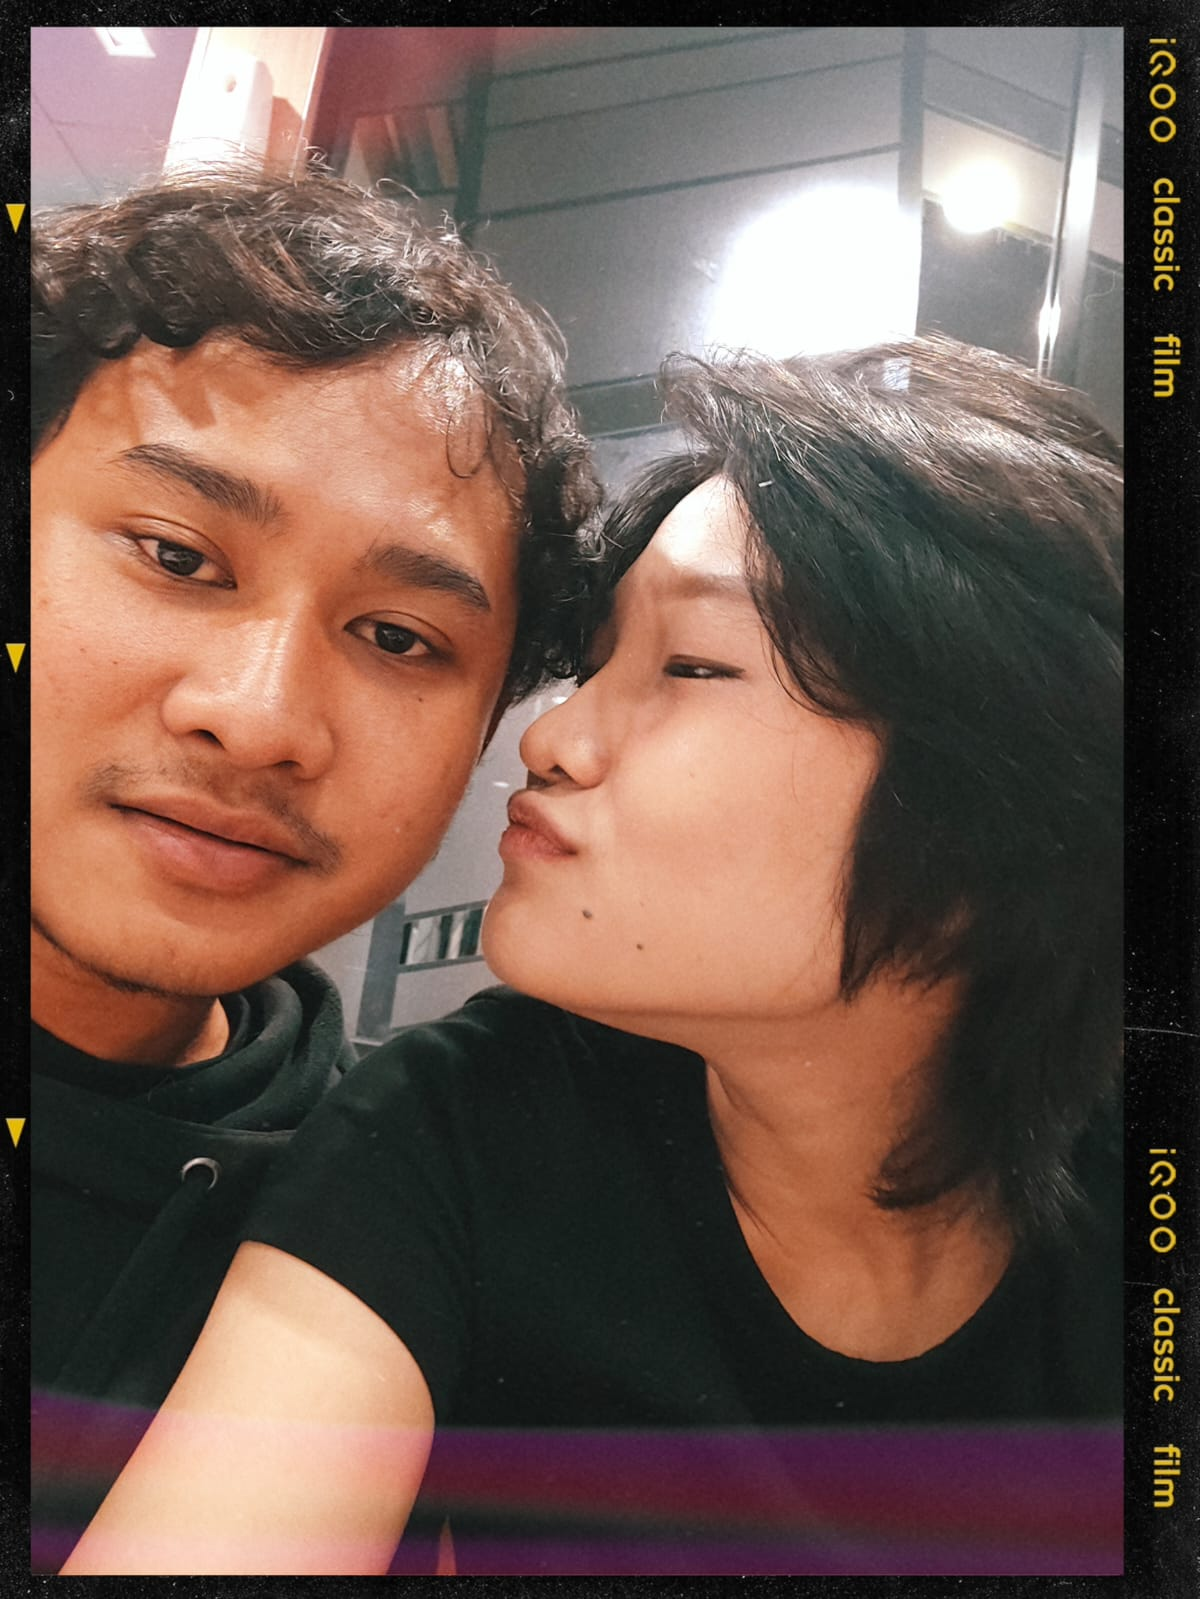
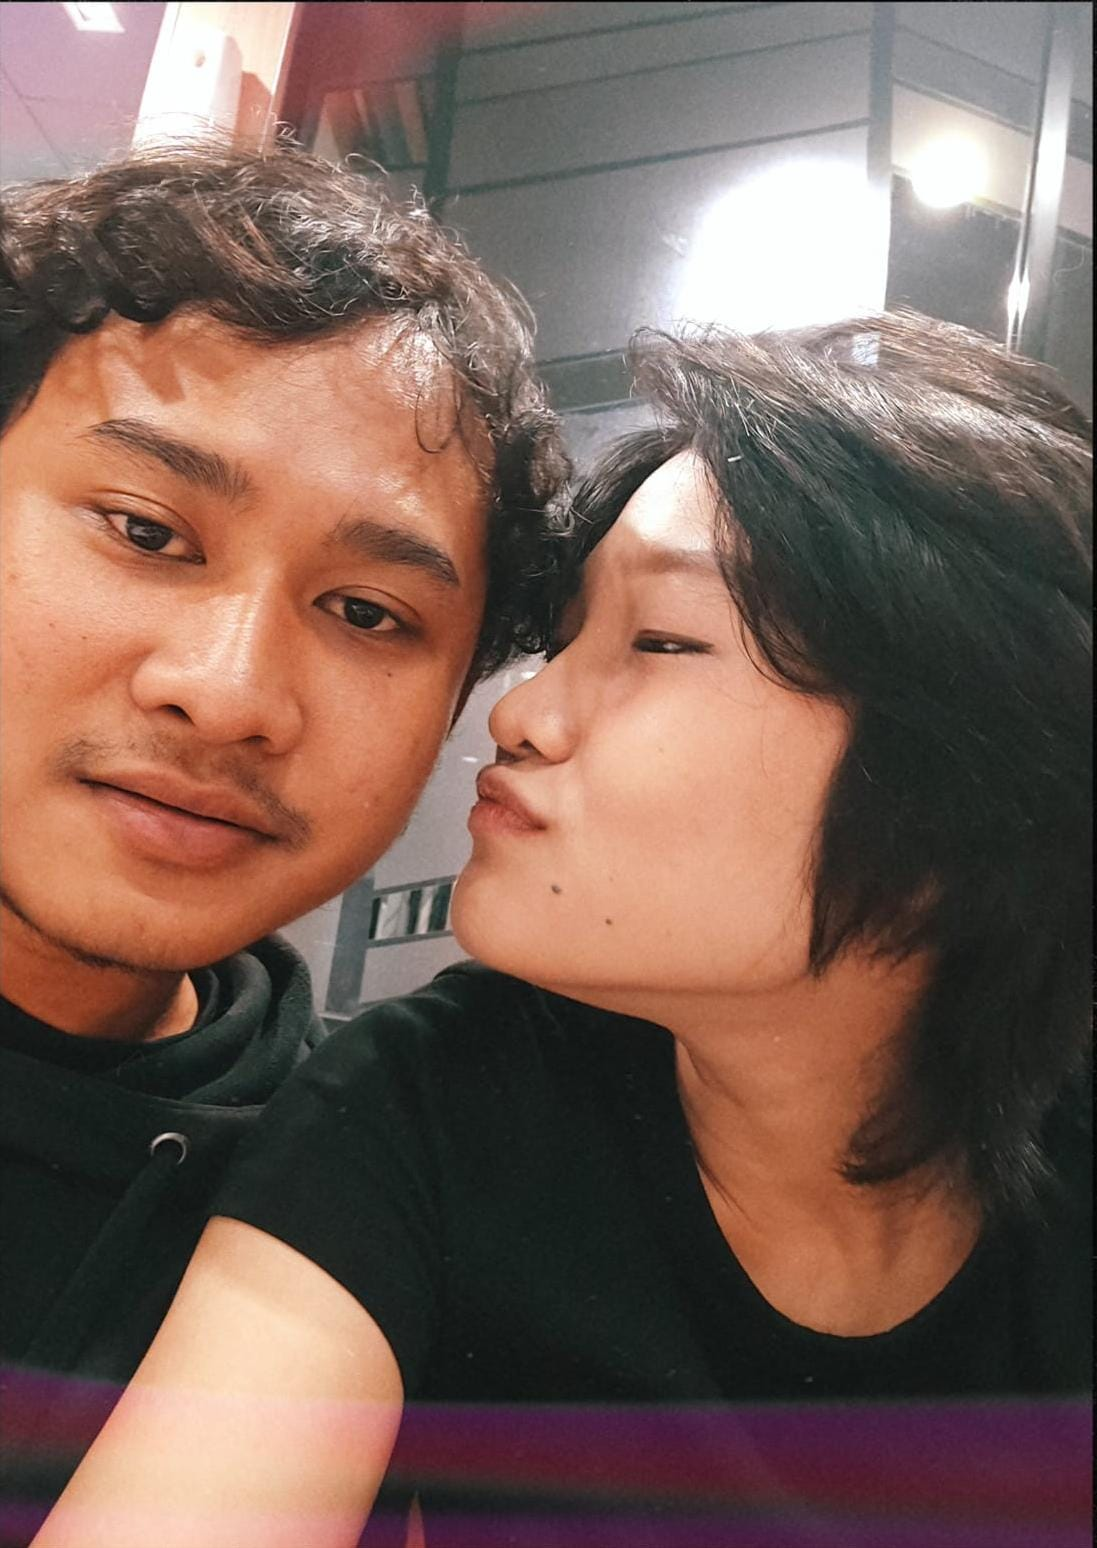
update photo & fix music player

diff --git a/src/components/MusicPlayer.tsx b/src/components/MusicPlayer.tsx
@@ -1,31 +1,40 @@
 import { useState, useRef, useEffect } from "react";
-import { Volume2, VolumeX, Music } from "lucide-react";
+import { Volume2, VolumeX, Music, Gift } from "lucide-react";
+import {
+  AlertDialog,
+  AlertDialogAction,
+  AlertDialogContent,
+  AlertDialogDescription,
+  AlertDialogFooter,
+  AlertDialogHeader,
+  AlertDialogTitle,
+} from "@/components/ui/alert-dialog";
 
 const MusicPlayer = () => {
   const [isPlaying, setIsPlaying] = useState(false);
-  const [hasInteracted, setHasInteracted] = useState(false);
+  const [showDialog, setShowDialog] = useState(false);
   const audioRef = useRef<HTMLAudioElement>(null);
 
-  // Using a royalty-free romantic piano piece from a public source
-  const audioSrc = "/backsound.mp3";
-
   useEffect(() => {
-    const handleFirstInteraction = () => {
-      if (!hasInteracted) {
-        setHasInteracted(true);
-        if (audioRef.current) {
-          audioRef.current.play().then(() => {
-            setIsPlaying(true);
-          }).catch(() => {
-            // Autoplay blocked, user needs to click
-          });
-        }
-      }
-    };
+    // Show dialog after a short delay when component mounts
+    const timer = setTimeout(() => {
+      setShowDialog(true);
+    }, 500);
 
-    document.addEventListener("click", handleFirstInteraction, { once: true });
-    return () => document.removeEventListener("click", handleFirstInteraction);
-  }, [hasInteracted]);
+    return () => clearTimeout(timer);
+  }, []);
+
+  const handleStartMusic = async () => {
+    setShowDialog(false);
+    if (audioRef.current) {
+      try {
+        await audioRef.current.play();
+        setIsPlaying(true);
+      } catch (error) {
+        console.log("Failed to play audio:", error);
+      }
+    }
+  };
 
   const toggleMusic = () => {
     if (audioRef.current) {
@@ -40,7 +49,33 @@ const MusicPlayer = () => {
 
   return (
     <>
-      <audio ref={audioRef} src={audioSrc} loop preload="auto" />
+      <audio ref={audioRef} src="/backsound.mp3" loop preload="auto" />
+      
+      <AlertDialog open={showDialog} onOpenChange={setShowDialog}>
+        <AlertDialogContent className="bg-gradient-to-br from-rose-50 to-pink-50 border-rose-200">
+          <AlertDialogHeader>
+            <AlertDialogTitle className="flex items-center gap-2 text-rose-600 text-2xl">
+              <Gift className="w-6 h-6 animate-bounce" />
+              Please enjoy this little gift from me ✨
+            </AlertDialogTitle>
+            <AlertDialogDescription className="text-gray-700 text-base pt-2">
+              <span className="text-sm text-gray-600 mt-2 block">
+                Tap the button to start the journey
+              </span>
+            </AlertDialogDescription>
+          </AlertDialogHeader>
+          <AlertDialogFooter>
+            <AlertDialogAction
+              onClick={handleStartMusic}
+              className="bg-gradient-to-r from-rose-400 to-rose-500 hover:from-rose-500 hover:to-rose-600 text-white shadow-lg hover:shadow-xl transition-all duration-300 hover:scale-105"
+            >
+              <Music className="w-4 h-4 mr-2" />
+              Start Journey
+            </AlertDialogAction>
+          </AlertDialogFooter>
+        </AlertDialogContent>
+      </AlertDialog>
+
       <button
         onClick={toggleMusic}
         className="fixed bottom-6 right-6 z-50 flex items-center gap-2 px-4 py-3 rounded-full bg-gradient-to-r from-rose-400 to-rose-500 text-white shadow-lg hover:shadow-xl transition-all duration-300 hover:scale-105 group"

diff --git a/src/components/MemoriesSection.tsx b/src/components/MemoriesSection.tsx
@@ -33,7 +33,7 @@ const MemoriesSection = () => {
     <section className="py-20 px-4 gradient-romantic">
       <div className="container mx-auto max-w-5xl">
         <div className="text-center mb-16 animate-fade-in-up">
-          <Camera className="w-8 h-8 text-accent mx-auto mb-4" />
+          {/* <Camera className="w-8 h-8 text-accent mx-auto mb-4" /> */}
           <h2 className="text-5xl md:text-6xl text-script text-foreground mb-4">
             Our Precious Memories
           </h2>

diff --git a/src/components/LoveLetterSection.tsx b/src/components/LoveLetterSection.tsx
@@ -5,7 +5,7 @@ const LoveLetterSection = () => {
     <section className="py-20 px-4 gradient-romantic">
       <div className="container mx-auto max-w-3xl">
         <div className="text-center mb-12 animate-fade-in-up">
-          <Pen className="w-8 h-8 text-accent mx-auto mb-4" />
+          {/* <Pen className="w-8 h-8 text-accent mx-auto mb-4" /> */}
           <h2 className="text-5xl md:text-6xl text-script text-foreground mb-4">
             A Letter For You
           </h2>

diff --git a/src/components/ReasonsSection.tsx b/src/components/ReasonsSection.tsx
@@ -18,7 +18,7 @@ const ReasonsSection = () => {
     <section className="py-20 px-4 bg-card">
       <div className="container mx-auto max-w-4xl">
         <div className="text-center mb-16 animate-fade-in-up">
-          <Star className="w-8 h-8 text-accent mx-auto mb-4" />
+          {/* <Star className="w-8 h-8 text-accent mx-auto mb-4" /> */}
           <h2 className="text-5xl md:text-6xl text-script text-foreground mb-4">
             10 Reasons I Love You
           </h2>
